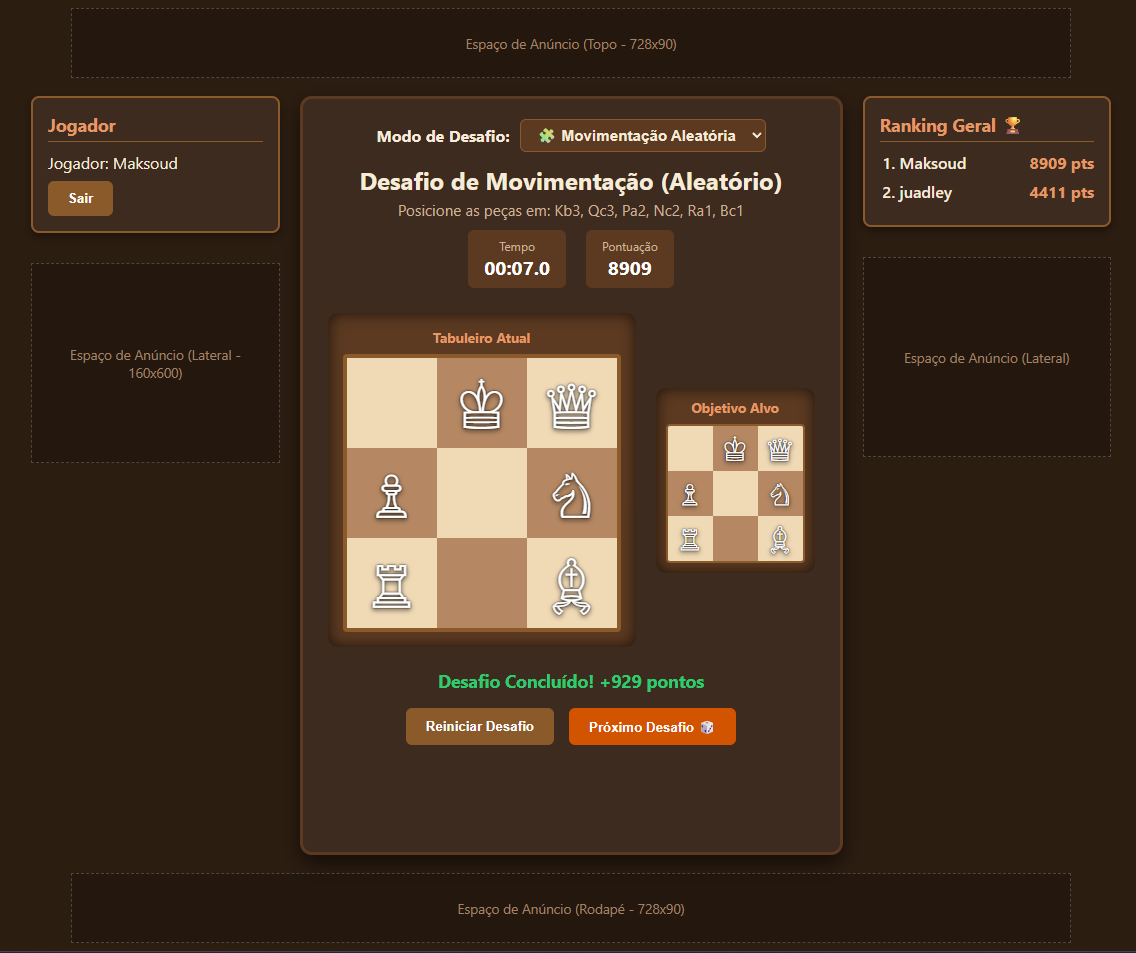
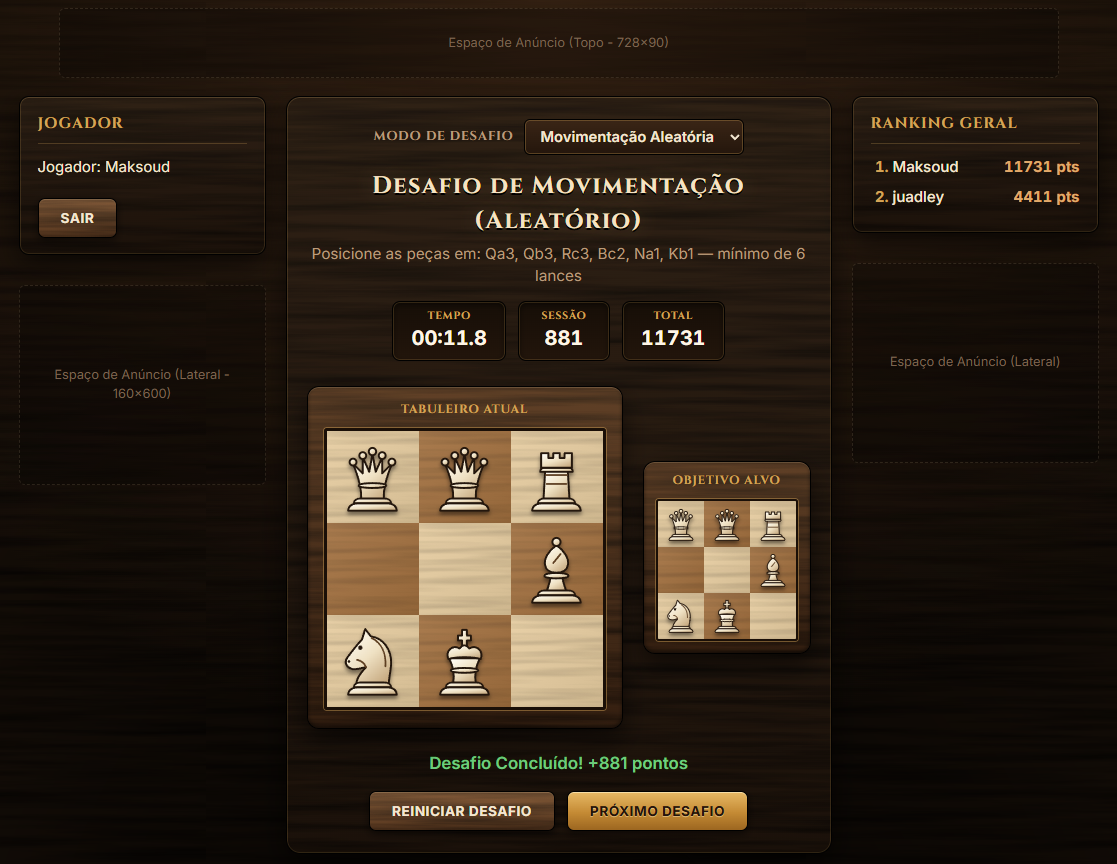
docs: atualiza o print do README com o visual atual

diff --git a/docs/MELHORIAS.md b/docs/MELHORIAS.md
@@ -5,7 +5,7 @@ Documento vivo com os problemas e oportunidades de melhoria encontrados no proje
 **Legenda de prioridade:** 🔴 Crítica · 🟠 Alta · 🟡 Média · 🟢 Baixa
 **Status:** `Aberto` · `Em andamento` · `Concluído` · `Descartado`
 
-_Última revisão: 2026-10-17 (base: commit `4d8c11c`, v0.5.0; itens críticos e de prioridade alta tratados em seguida)_
+_Última revisão: 2026-10-17 (base: commit `4d8c11c`, v0.5.0). Todos os itens foram tratados; restam as ideias do backlog no fim do documento._
 
 ---
 
